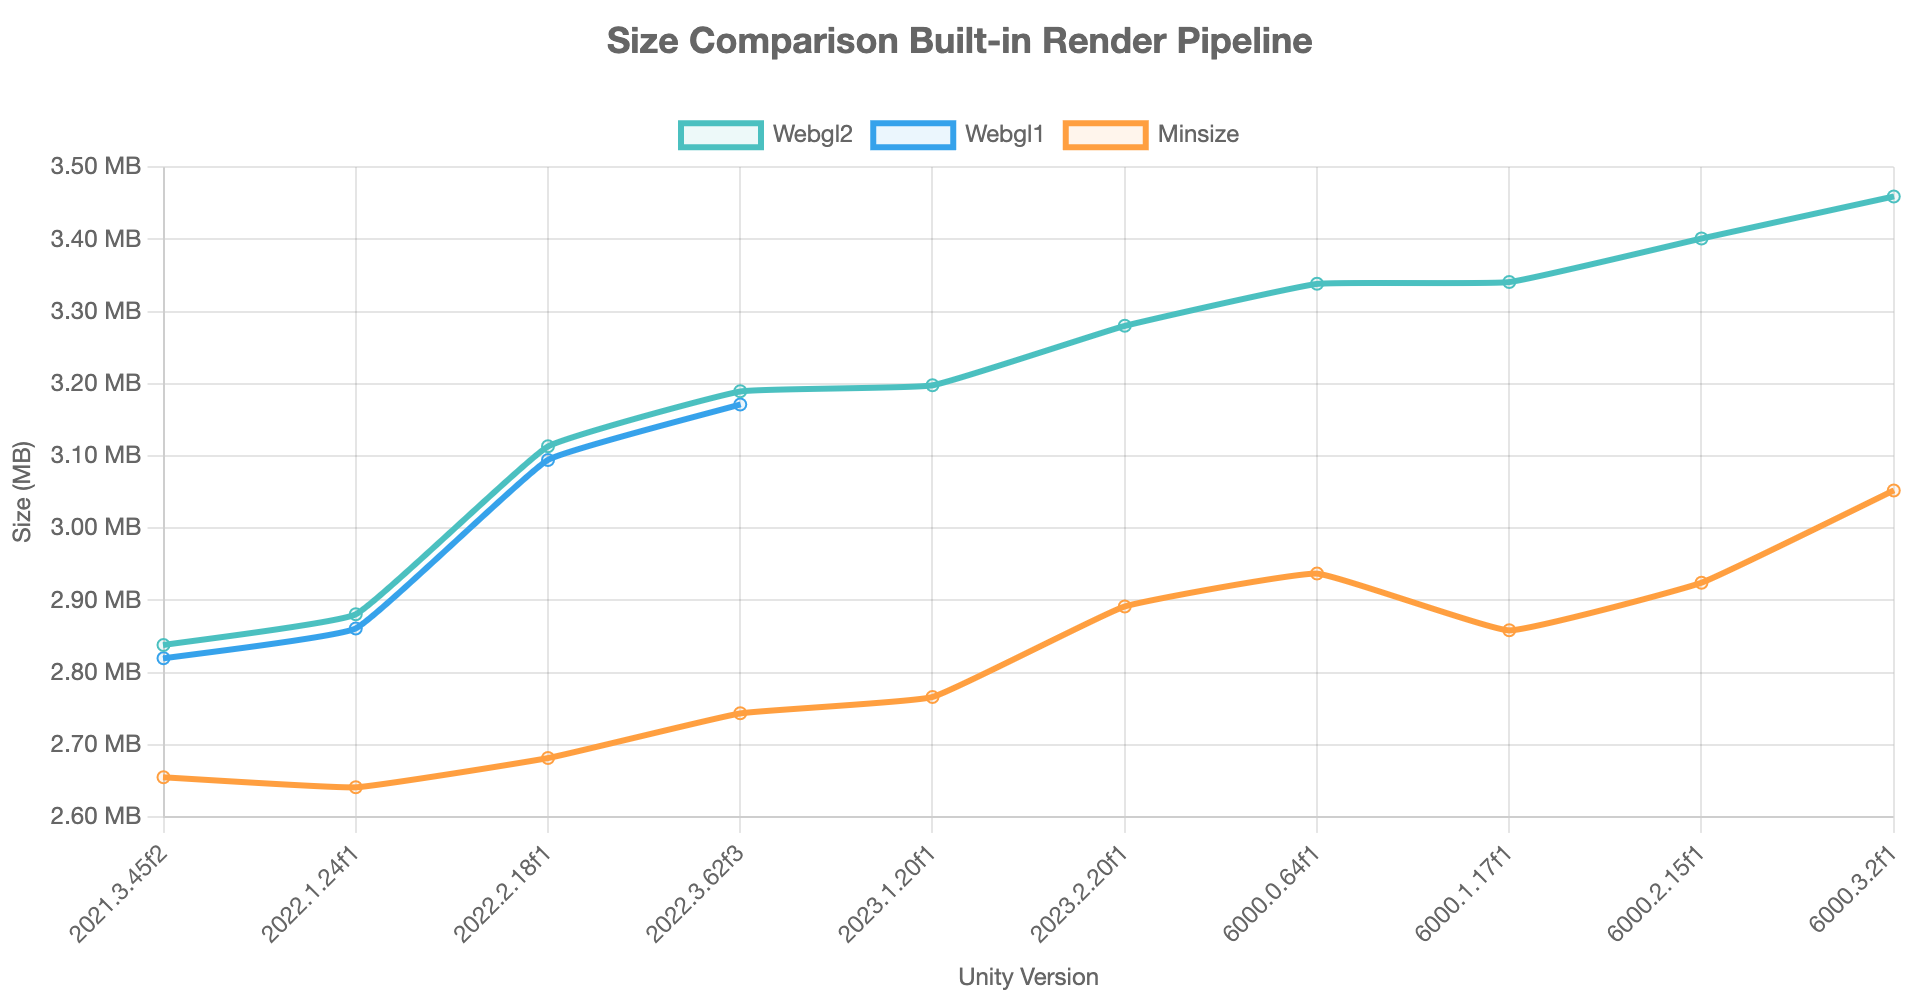
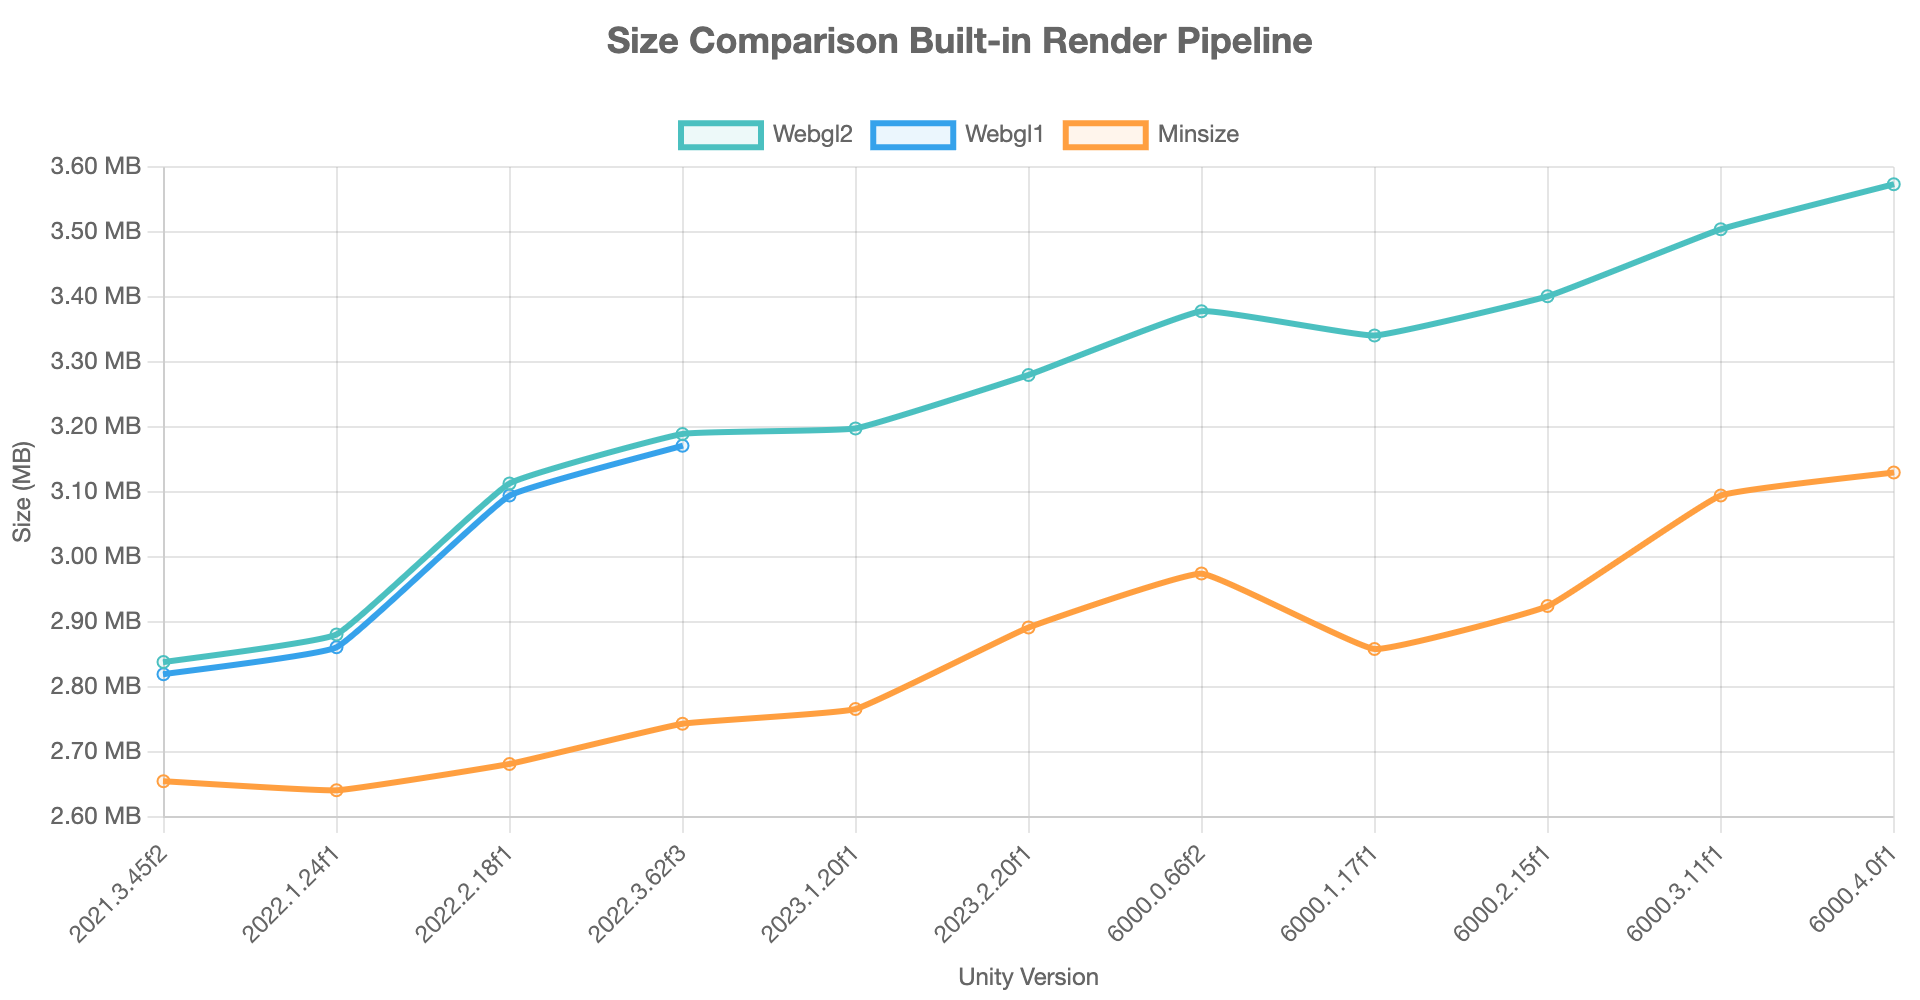
Add statistics for 6000.4

diff --git a/README.md b/README.md
@@ -2,9 +2,9 @@
 
 ![Preview](./preview.png)
 
-[![](https://img.shields.io/github/release-date/JohannesDeml/UnityWebGL-LoadingTest.svg)](https://github.com/JohannesDeml/UnityWebGL-LoadingTest/releases) [![Tested up to Unity 6.3](https://img.shields.io/badge/tested%20up%20to%20unity-6000.3-green.svg?logo=unity&cacheSeconds=2592000)](https://unity3d.com/get-unity/download/archive)
+[![](https://img.shields.io/github/release-date/JohannesDeml/UnityWebGL-LoadingTest.svg)](https://github.com/JohannesDeml/UnityWebGL-LoadingTest/releases) [![Tested up to Unity 6.4](https://img.shields.io/badge/tested%20up%20to%20unity-6000.4-green.svg?logo=unity&cacheSeconds=2592000)](https://unity3d.com/get-unity/download/archive)
 
-*Testing Unity's WebGL size and loading time for different versions (2018.4 - 6000.3) and settings*
+*Testing Unity's WebGL size and loading time for different versions (2018.4 - 6000.4) and settings*
 
 * [Overview page of all builds](https://deml.io/experiments/unity-webgl/)
 * [Implementation in Godot](https://github.com/JohannesDeml/Godot-Web-LoadingTest)
@@ -34,10 +34,11 @@ BiRP Build Size | URP Build Size
 
 Version | Size | Link
 --- | --- | ---
-6000.3.2f1 | 3.46 MB | https://deml.io/experiments/unity-webgl/6000.3.2f1-webgl2
+6000.4.0f1 | 3.57 MB | https://deml.io/experiments/unity-webgl/6000.4.0f1-webgl2
+6000.3.11f1 | 3.50 MB | https://deml.io/experiments/unity-webgl/6000.3.11f1-webgl2
 6000.2.15f1 | 3.40 MB | https://deml.io/experiments/unity-webgl/6000.2.15f1-webgl2
 6000.1.17f1 | 3.34 MB | https://deml.io/experiments/unity-webgl/6000.1.17f1-webgl2
-6000.0.64f1 | 3.34 MB | https://deml.io/experiments/unity-webgl/6000.0.64f1-webgl2
+6000.0.66f2 | 3.38 MB | https://deml.io/experiments/unity-webgl/6000.0.66f2-webgl2
 2023.2.20f1 | 3.28 MB | https://deml.io/experiments/unity-webgl/2023.2.20f1-webgl2
 2023.1.20f1 | 3.20 MB | https://deml.io/experiments/unity-webgl/2023.1.20f1-webgl2
 2022.3.62f3 | 3.19 MB | https://deml.io/experiments/unity-webgl/2022.3.62f3-webgl2
@@ -60,10 +61,11 @@ Version | Size | Link
 
 Version | Size | Link
 --- | --- | ---
-6000.3.2f1 | 3.05 MB | https://deml.io/experiments/unity-webgl/6000.3.2f1-minsize-webgl2
+6000.4.0f1 | 3.13 MB | https://deml.io/experiments/unity-webgl/6000.4.0f1-minsize-webgl2
+6000.3.11f1 | 3.09 MB | https://deml.io/experiments/unity-webgl/6000.3.11f1-minsize-webgl2
 6000.2.15f1 | 2.92 MB | https://deml.io/experiments/unity-webgl/6000.2.15f1-minsize-webgl2
 6000.1.17f1 | 2.86 MB | https://deml.io/experiments/unity-webgl/6000.1.17f1-minsize-webgl2
-6000.0.64f1 | 2.94 MB | https://deml.io/experiments/unity-webgl/6000.0.64f1-minsize-webgl2
+6000.0.66f2 | 2.97 MB | https://deml.io/experiments/unity-webgl/6000.0.66f2-minsize-webgl2
 2023.2.20f1 | 2.89 MB | https://deml.io/experiments/unity-webgl/2023.2.20f1-minsize-webgl2
 2023.1.20f1 | 2.77 MB | https://deml.io/experiments/unity-webgl/2023.1.20f1-minsize-webgl2
 2022.3.62f3 | 2.74 MB | https://deml.io/experiments/unity-webgl/2022.3.62f3-minsize-webgl1
@@ -76,10 +78,11 @@ Version | Size | Link
 
 Version | Size | Link
 --- | --- | ---
-6000.3.2f1 | 8.23 MB | https://deml.io/experiments/unity-webgl/6000.3.2f1-urp-webgl2
+6000.4.0f1 | 8.74 MB | https://deml.io/experiments/unity-webgl/6000.4.0f1-urp-webgl2
+6000.3.11f1 | 8.65 MB | https://deml.io/experiments/unity-webgl/6000.3.11f1-urp-webgl2
 6000.2.15f1 | 8.13 MB | https://deml.io/experiments/unity-webgl/6000.2.15f1-urp-webgl2
 6000.1.17f1 | 7.97 MB | https://deml.io/experiments/unity-webgl/6000.1.17f1-urp-webgl2
-6000.0.64f1 | 7.94 MB | https://deml.io/experiments/unity-webgl/6000.0.64f1-urp-webgl2
+6000.0.66f2 | 8.36 MB | https://deml.io/experiments/unity-webgl/6000.0.66f2-urp-webgl2
 2023.2.20f1 | 6.88 MB | https://deml.io/experiments/unity-webgl/2023.2.20f1-urp-webgl2
 2023.1.20f1 | 6.29 MB | https://deml.io/experiments/unity-webgl/2023.1.20f1-urp-webgl2
 2022.3.62f3 | 5.99 MB | https://deml.io/experiments/unity-webgl/2022.3.62f3-urp-webgl2
@@ -102,17 +105,17 @@ Version | Size | Link
 
 Version | Size | Link
 --- | --- | ---
-6000.3.2f1 | 6.30 MB | https://deml.io/experiments/unity-webgl/6000.3.2f1-urp-minsize-webgl2
+6000.4.0f1 | 6.78 MB | https://deml.io/experiments/unity-webgl/6000.4.0f1-urp-minsize-webgl2
+6000.3.11f1 | 6.72 MB | https://deml.io/experiments/unity-webgl/6000.3.11f1-urp-minsize-webgl2
 6000.2.15f1 | 6.24 MB | https://deml.io/experiments/unity-webgl/6000.2.15f1-urp-minsize-webgl2
 6000.1.17f1 | 5.64 MB | https://deml.io/experiments/unity-webgl/6000.1.17f1-urp-minsize-webgl2
-6000.0.64f1 | 6.11 MB | https://deml.io/experiments/unity-webgl/6000.0.64f1-urp-minsize-webgl2
+6000.0.66f2 | 6.52 MB | https://deml.io/experiments/unity-webgl/6000.0.66f2-urp-minsize-webgl2
 2023.2.20f1 | 5.33 MB | https://deml.io/experiments/unity-webgl/2023.2.20f1-urp-minsize-webgl2
 2023.1.20f1 | 4.88 MB | https://deml.io/experiments/unity-webgl/2023.1.20f1-urp-minsize-webgl2
 2022.3.62f3 | 4.69 MB | https://deml.io/experiments/unity-webgl/2022.3.62f3-urp-minsize-webgl1
 2022.2.18f1 | 5.92 MB | https://deml.io/experiments/unity-webgl/2022.2.18f1-urp-minsize-webgl1
 2022.1.24f1 | 5.71 MB | https://deml.io/experiments/unity-webgl/2022.1.24f1-urp-minsize-webgl1
 2021.3.45f2 | 5.93 MB | https://deml.io/experiments/unity-webgl/2021.3.45f2-urp-minsize-webgl1
-
 
 ## Platform Compatibility
 
